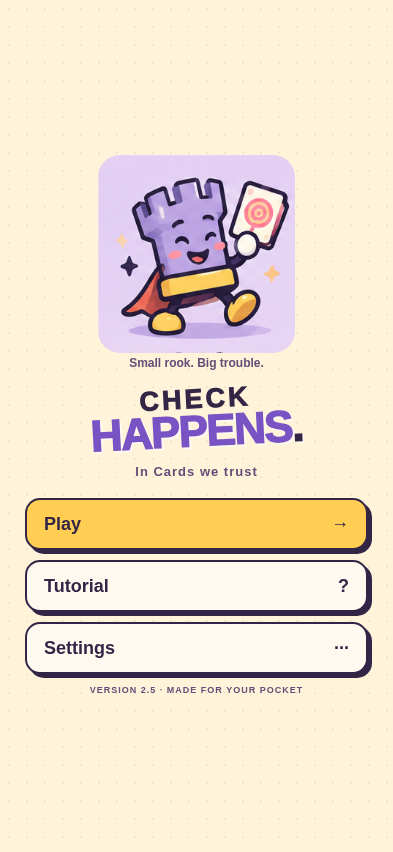
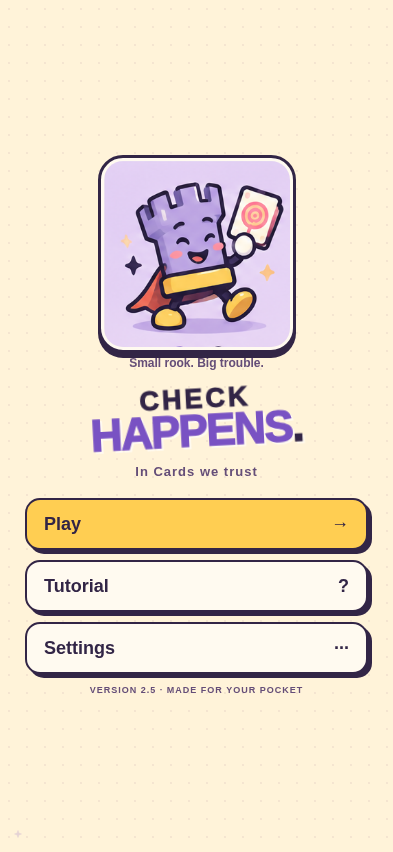
Frame mascot and add reduced-motion-aware menu idle turns

diff --git a/tests/browser/worlds.spec.ts b/tests/browser/worlds.spec.ts
@@ -129,3 +129,42 @@ test("branded loading screen uses the saved world before React loads", async ({
       .evaluate((e) => (e as HTMLImageElement).naturalWidth > 0),
   ).toBe(true);
 });
+test("framed mascot turns halfway every 3.5 seconds without moving menu controls", async ({
+  page,
+}) => {
+  await page.setViewportSize({ width: 320, height: 568 });
+  await page.goto("/");
+  const frame = page.locator(".rooki-orbit");
+  await expect(frame).toHaveCSS("animation-name", "rooki-idle-turn");
+  await expect(frame).toHaveCSS("border-top-width", "3px");
+  const menu = await page
+    .getByRole("navigation", { name: "Main menu" })
+    .boundingBox();
+  const transforms = await frame.evaluate((element) => {
+    const animation = element.getAnimations()[0];
+    animation.pause();
+    return [0, 3220, 3500, 6720, 7000].map((time) => {
+      animation.currentTime = time;
+      const box = element.getBoundingClientRect();
+      return {
+        matrix: getComputedStyle(element).transform,
+        fits:
+          box.top >= 0 &&
+          box.bottom <= innerHeight &&
+          box.left >= 0 &&
+          box.right <= innerWidth,
+      };
+    });
+  });
+  expect(transforms.every((t) => t.fits)).toBe(true);
+  expect(transforms[2].matrix).toBe("matrix(-1, 0, 0, -1, 0, 0)");
+  expect(transforms[4].matrix).toBe(transforms[0].matrix);
+  expect(
+    await page.getByRole("navigation", { name: "Main menu" }).boundingBox(),
+  ).toEqual(menu);
+  await page.emulateMedia({ reducedMotion: "reduce" });
+  await expect(frame).toHaveCSS("animation-name", "none");
+  await page.emulateMedia({ reducedMotion: "no-preference" });
+  await page.locator("html").evaluate((e) => e.classList.add("reduce-motion"));
+  await expect(frame).toHaveCSS("animation-name", "none");
+});

diff --git a/src/ui/styles.css b/src/ui/styles.css
@@ -3413,3 +3413,90 @@ textarea {
 .brand-mark {
   object-fit: contain;
 }
+/* A half-turn every 3.5 seconds, with a long stationary reading interval. */
+.rooki-orbit {
+  display: block;
+  height: 100%;
+  aspect-ratio: 1;
+  width: auto;
+  margin: auto;
+  padding: 3px;
+  border: 3px solid var(--ink);
+  border-radius: 25px;
+  background: var(--paper);
+  box-shadow: 0 5px 0 var(--ink);
+  animation: rooki-idle-turn 7s ease-in-out infinite;
+}
+.rooki-orbit .rooki-art {
+  width: 100%;
+  height: 100%;
+  border-radius: 19px;
+}
+@keyframes rooki-idle-turn {
+  0%,
+  42% {
+    transform: rotate(0deg) scale(1);
+  }
+  46% {
+    transform: rotate(90deg) scale(0.68);
+  }
+  50%,
+  92% {
+    transform: rotate(180deg) scale(1);
+  }
+  96% {
+    transform: rotate(270deg) scale(0.68);
+  }
+  100% {
+    transform: rotate(360deg) scale(1);
+  }
+}
+.menu-screen,
+.learn-page {
+  position: relative;
+}
+.menu-screen::after,
+.learn-page::after {
+  content: "";
+  position: absolute;
+  pointer-events: none;
+  left: 12px;
+  bottom: max(12px, env(safe-area-inset-bottom));
+  width: 12px;
+  height: 12px;
+  background: var(--purple);
+  clip-path: polygon(
+    50% 0,
+    63% 37%,
+    100% 50%,
+    63% 63%,
+    50% 100%,
+    37% 63%,
+    0 50%,
+    37% 37%
+  );
+  animation: menu-idle-glimmer 3.5s ease-in-out infinite;
+}
+@keyframes menu-idle-glimmer {
+  0%,
+  100% {
+    opacity: 0.2;
+    transform: scale(0.7);
+  }
+  50% {
+    opacity: 0.7;
+    transform: scale(1);
+  }
+}
+.reduce-motion .rooki-orbit,
+.reduce-motion .menu-screen::after,
+.reduce-motion .learn-page::after {
+  animation: none;
+}
+@media (prefers-reduced-motion: reduce) {
+  .rooki-orbit,
+  .menu-screen::after,
+  .learn-page::after {
+    animation: none;
+  }
+}

diff --git a/src/ui/Brand.tsx b/src/ui/Brand.tsx
@@ -49,13 +49,15 @@ export function Rooki({ theme }: { theme: Theme }) {
             setBouncing(true);
           }}
         >
-          <span
-            className={`rooki-art rooki-illustration rooki-${theme}`}
-            role="img"
-            aria-label="Rooki, the chaos rook"
-            data-look={theme}
-            style={{ backgroundImage: `url("${asset("mascot-sheet.png")}")` }}
-          />
+          <span className="rooki-orbit">
+            <span
+              className={`rooki-art rooki-illustration rooki-${theme}`}
+              role="img"
+              aria-label="Rooki, the chaos rook"
+              data-look={theme}
+              style={{ backgroundImage: `url("${asset("mascot-sheet.png")}")` }}
+            />
+          </span>
         </button>
         <span className="rooki-speech" role="status">
           {

diff --git a/public/sw.js b/public/sw.js
@@ -1,5 +1,5 @@
 // Shell updates wait for open games to close; no forced activation.
-const CACHE = "check-happens-v2-5-0-owner-mascot";
+const CACHE = "check-happens-v2-5-0-mascot-idle";
 self.addEventListener("install", (event) => {
   event.waitUntil(
     (async () => {

diff --git a/docs/TESTING.md b/docs/TESTING.md
@@ -4,7 +4,7 @@ Latest UI and theme verification: 22 October 2026.
 
 - Strict TypeScript and Vite production build pass.
 - 176 Vitest tests pass: 22 new room, HTTP, theme, crack and viewer-finale cases, alongside 80 rule/engine cases, 5 persistence cases, 4 existing computer cases and 19 audit/time/bot cases, 9 compact-log/storage/metadata cases and 1 source-build fingerprint case, plus 3 language formatting regressions.
-- 49 Chromium browser tests pass. Four new cases cover persisted themes, Skip chains, progressive cracks and a two-client invitation/reconnect match. The suite covers English menus/tutorial/settings, 4/7/10-minute matches, three training profiles, turn changes, Reverse, defense before draw, color choice, +2/+4 ghosts, Wild evolution, Skip, pre-move cracks, destruction puff, JSON download/analysis, altered-log rejection, clock expiry and theatrical Win/Lose/Draw dialogs.
+- 50 Chromium browser tests pass. Four new cases cover persisted themes, Skip chains, progressive cracks and a two-client invitation/reconnect match. The suite covers English menus/tutorial/settings, 4/7/10-minute matches, three training profiles, turn changes, Reverse, defense before draw, color choice, +2/+4 ghosts, Wild evolution, Skip, pre-move cracks, destruction puff, JSON download/analysis, altered-log rejection, clock expiry and theatrical Win/Lose/Draw dialogs.
 - Portrait viewport checks: 375×667, 393×852, 430×932 and 768×1024. Main action and menu touch targets are checked. Landscape shows a portrait-orientation hint.
 - Reduced-motion risk/finale feedback and production service-worker offline reload are exercised. Browser tests fail on unhandled JavaScript errors.
 - Initial engine perft remains 20 / 400 / 8902 at depth 1 / 2 / 3.
@@ -95,3 +95,7 @@ The existing game, tutorial, sandbox, finale, bilingual and offline regressions
 continue to run. The app icons use the owner-supplied mascot. Theme art is displayed directly from
 the supplied sheet; the isolated main character is used for loading and compact marks.
 No runtime dependencies were added.
+
+The mascot idle regression samples paused animation frames at 0, 3.5 and 7 seconds,
+checks the half-turn and 320×568 containment, unchanged menu positions, and both
+reduced-motion controls. Gameplay does not receive the menu idle animation.

diff --git a/README.md b/README.md
@@ -127,7 +127,7 @@ npx playwright install chromium
 npx playwright test --workers=2
 ```
 
-`npm run check` runs strict TypeScript, domain tests and a production build. Browser tests start their own servers and exercise phone layouts, tutorial, three bot profiles, card interactions, logs, finales and offline reload. The last verified baseline has **176 unit tests and 49 Chromium browser tests**. Physical iPhone/Safari release testing remains necessary.
+`npm run check` runs strict TypeScript, domain tests and a production build. Browser tests start their own servers and exercise phone layouts, tutorial, three bot profiles, card interactions, logs, finales and offline reload. The last verified baseline has **176 unit tests and 50 Chromium browser tests**. Physical iPhone/Safari release testing remains necessary.
 
 The implementation uses React, TypeScript and Vite, with a local chess-engine adapter and a deterministic turn resolver. [Architecture](docs/ARCHITECTURE.md) · [verification report](docs/TESTING.md) · [changelog](CHANGELOG.md).
 

diff --git a/CHANGELOG.md b/CHANGELOG.md
@@ -2,6 +2,8 @@
 
 ## 2.5.0
 
+- Framed the menu mascot like the board and added a stationary-then-half-turn idle every 3.5 seconds, plus a subtle non-game page glimmer. Both respect system and saved reduced-motion preferences.
+
 - Replaced the initial vector mascot with the owner-supplied illustrated identity, five theme variants, splash art and iPhone icons.
 
 - Rebuilt all five themes as complete visual worlds, including board, pieces, controls and feedback; functional card and color-frame colors remain fixed.
